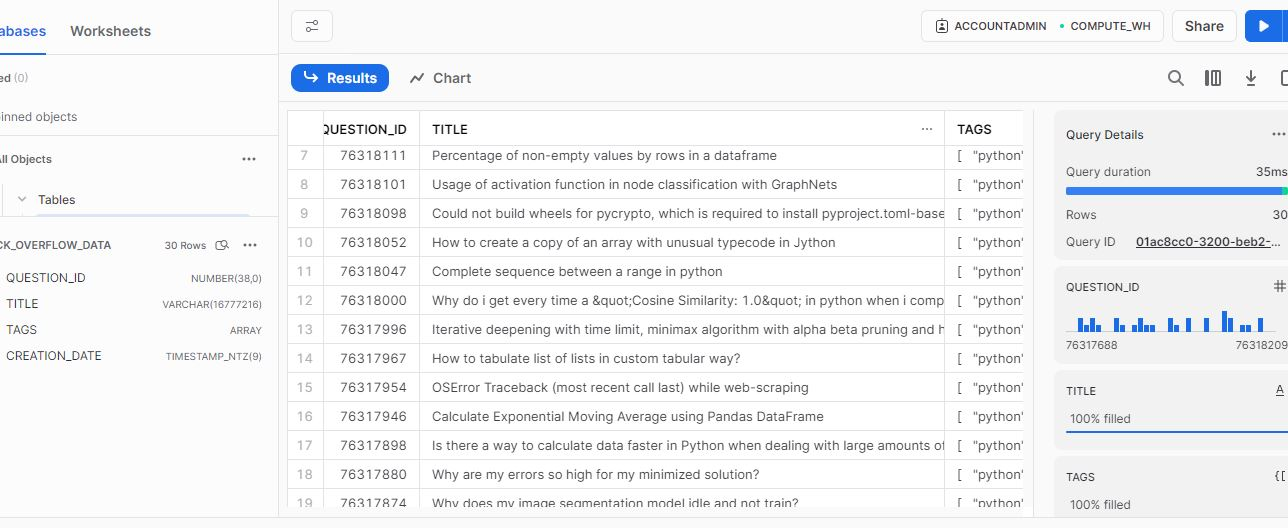
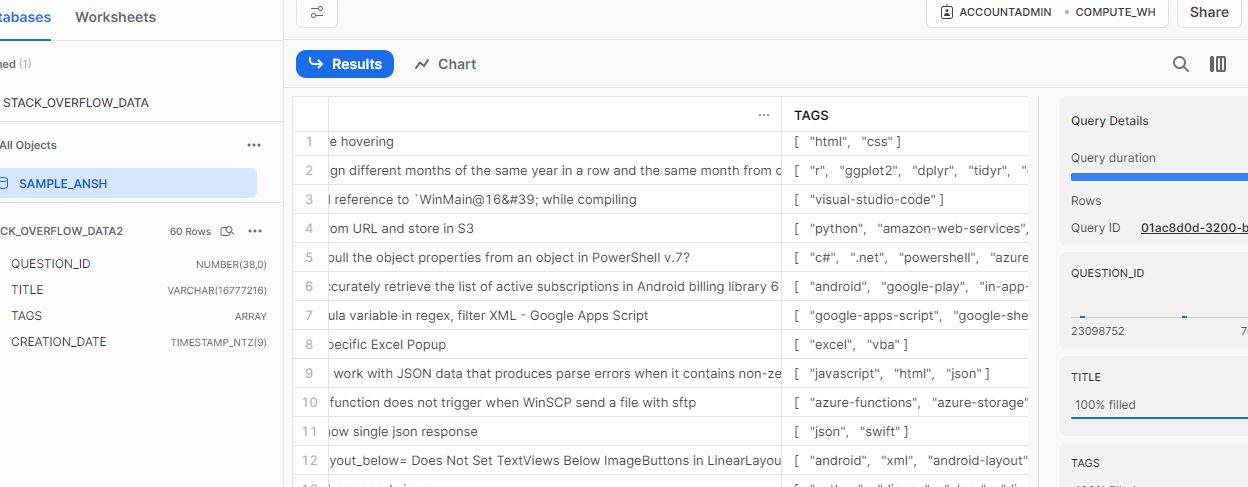
code update

diff --git a/source_code/pact_interview.py b/source_code/pact_interview.py
@@ -4,7 +4,7 @@ from snowflake.connector.pandas_tools import write_pandas
 import pandas as pd
 
 # Fetch data from Stack Exchange API
-def fetch_data_from_stack_overflow(api_key, query_params):
+def fetch_data_from_stack_overflow(api_key):
     base_url = "https://api.stackexchange.com/2.3/"
     endpoint = "questions"  
     
@@ -15,10 +15,9 @@ def fetch_data_from_stack_overflow(api_key, query_params):
     }
     
   
-    query_params.update(common_params)
     
     try:
-        response = requests.get(base_url + endpoint, params=query_params)
+        response = requests.get(base_url + endpoint, params=common_params)
         response.raise_for_status()
         return response.json()
     except requests.exceptions.RequestException as e:
@@ -64,14 +63,10 @@ def store_data_in_snowflake(data, snowflake_config):
     print("Data stored in Snowflake table successfully.")
 
 
-api_key = "your api key"
-query_params = {
-    "tagged": "python",
-    "order": "desc",
-    "sort": "creation"
-}
+api_key = "api key"
 
-response_data = fetch_data_from_stack_overflow(api_key, query_params)
+
+response_data = fetch_data_from_stack_overflow(api_key)
 if response_data:
     snowflake_config = {
         'user': 'username',
